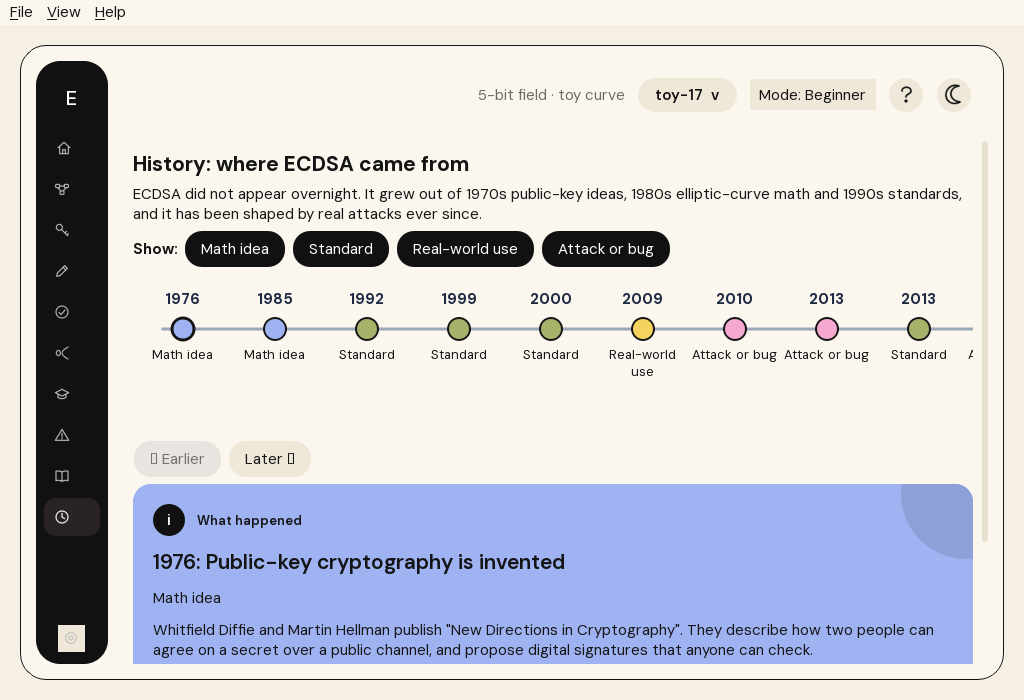
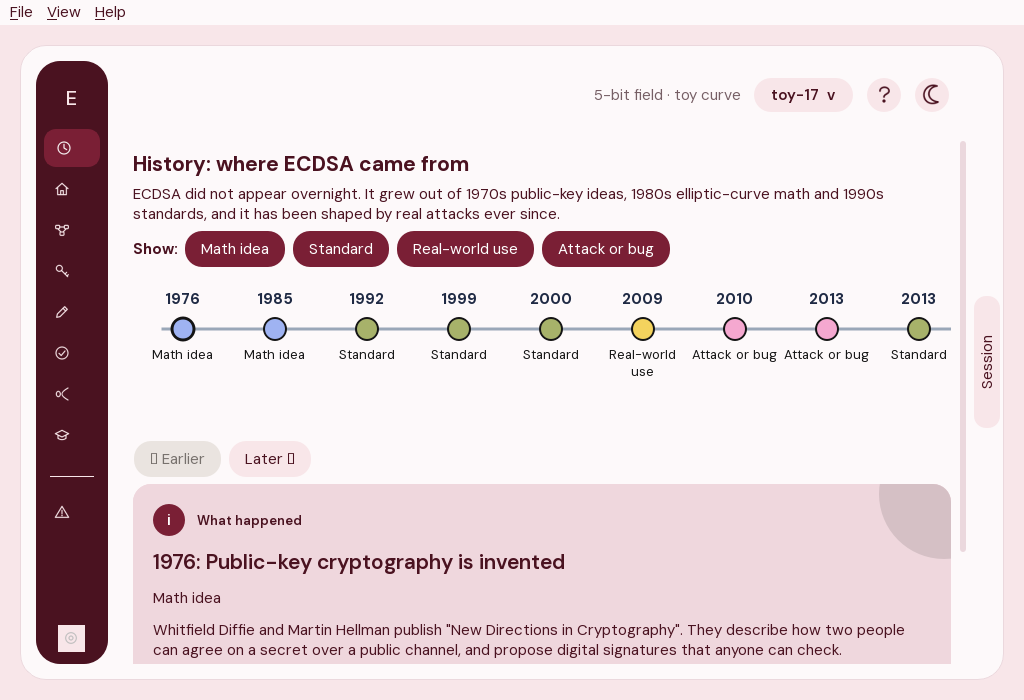
Docs: refresh screenshots and the README page list
- Regenerate docs/screenshots/*-1024x700.png and *-1440x900.png with
  tools/capture_dashboard.py.
- Remove the screenshots of the Theory page, which no longer exists.
- README: describe the new Keys/Sign/Verify features, the sidebar order
  with the 'Games & Practice' divider, and the Session tab.

diff --git a/README.md b/README.md
@@ -14,14 +14,16 @@ and watch what goes wrong when a nonce is reused.
 
 | Page | What you can do | Owner |
 |---|---|---|
-| Keys | Generate / type a private key, watch `Q = d·G`, import, save and load keys | P2 |
-| Sign | Hash and sign messages or files, with the full trace | P3 |
-| Verify | Verify signatures, with the full trace | P4 |
+| Keys | Generate / type a private key and copy it (it is never saved), watch `Q = d·G`, save and load the public key, export a self-signed X.509 certificate | P2 |
+| Sign | Hash (SHA-512 by default) and sign messages or files (max 10 MB), with the full trace | P3 |
+| Verify | Verify signatures with a public key or an X.509 certificate, with the full trace | P4 |
 | Curve Explorer | Explore curves, point addition and scalar multiplication | P1 |
 | Learn ECDSA | Guided walkthrough of the whole signature story, one step per page, with "Go deeper" theory, the classic pitfalls, a quiz and a glossary | P4 (frame) + everyone's pages |
 | Attack Demo | Recover the private key from two signatures that reused a nonce | P4 |
 
-The pages are listed in the sidebar on the left. The curve selector in the toolbar applies to
+The pages are listed in the sidebar on the left: History, Start here, Overview and the
+learning pages first, then the games under a "Games & Practice" divider. A slim "Session"
+tab on the right edge opens a panel with your activity. The curve selector in the toolbar applies to
 every page. Built-in curves: `toy-17`, `toy-97` (small enough to follow by hand), `secp256k1`,
 `P-256`; **Custom curve…** at the end of the list adds your own small curve. A light and a
 dark theme are available (toolbar button, or View → Dark theme).
